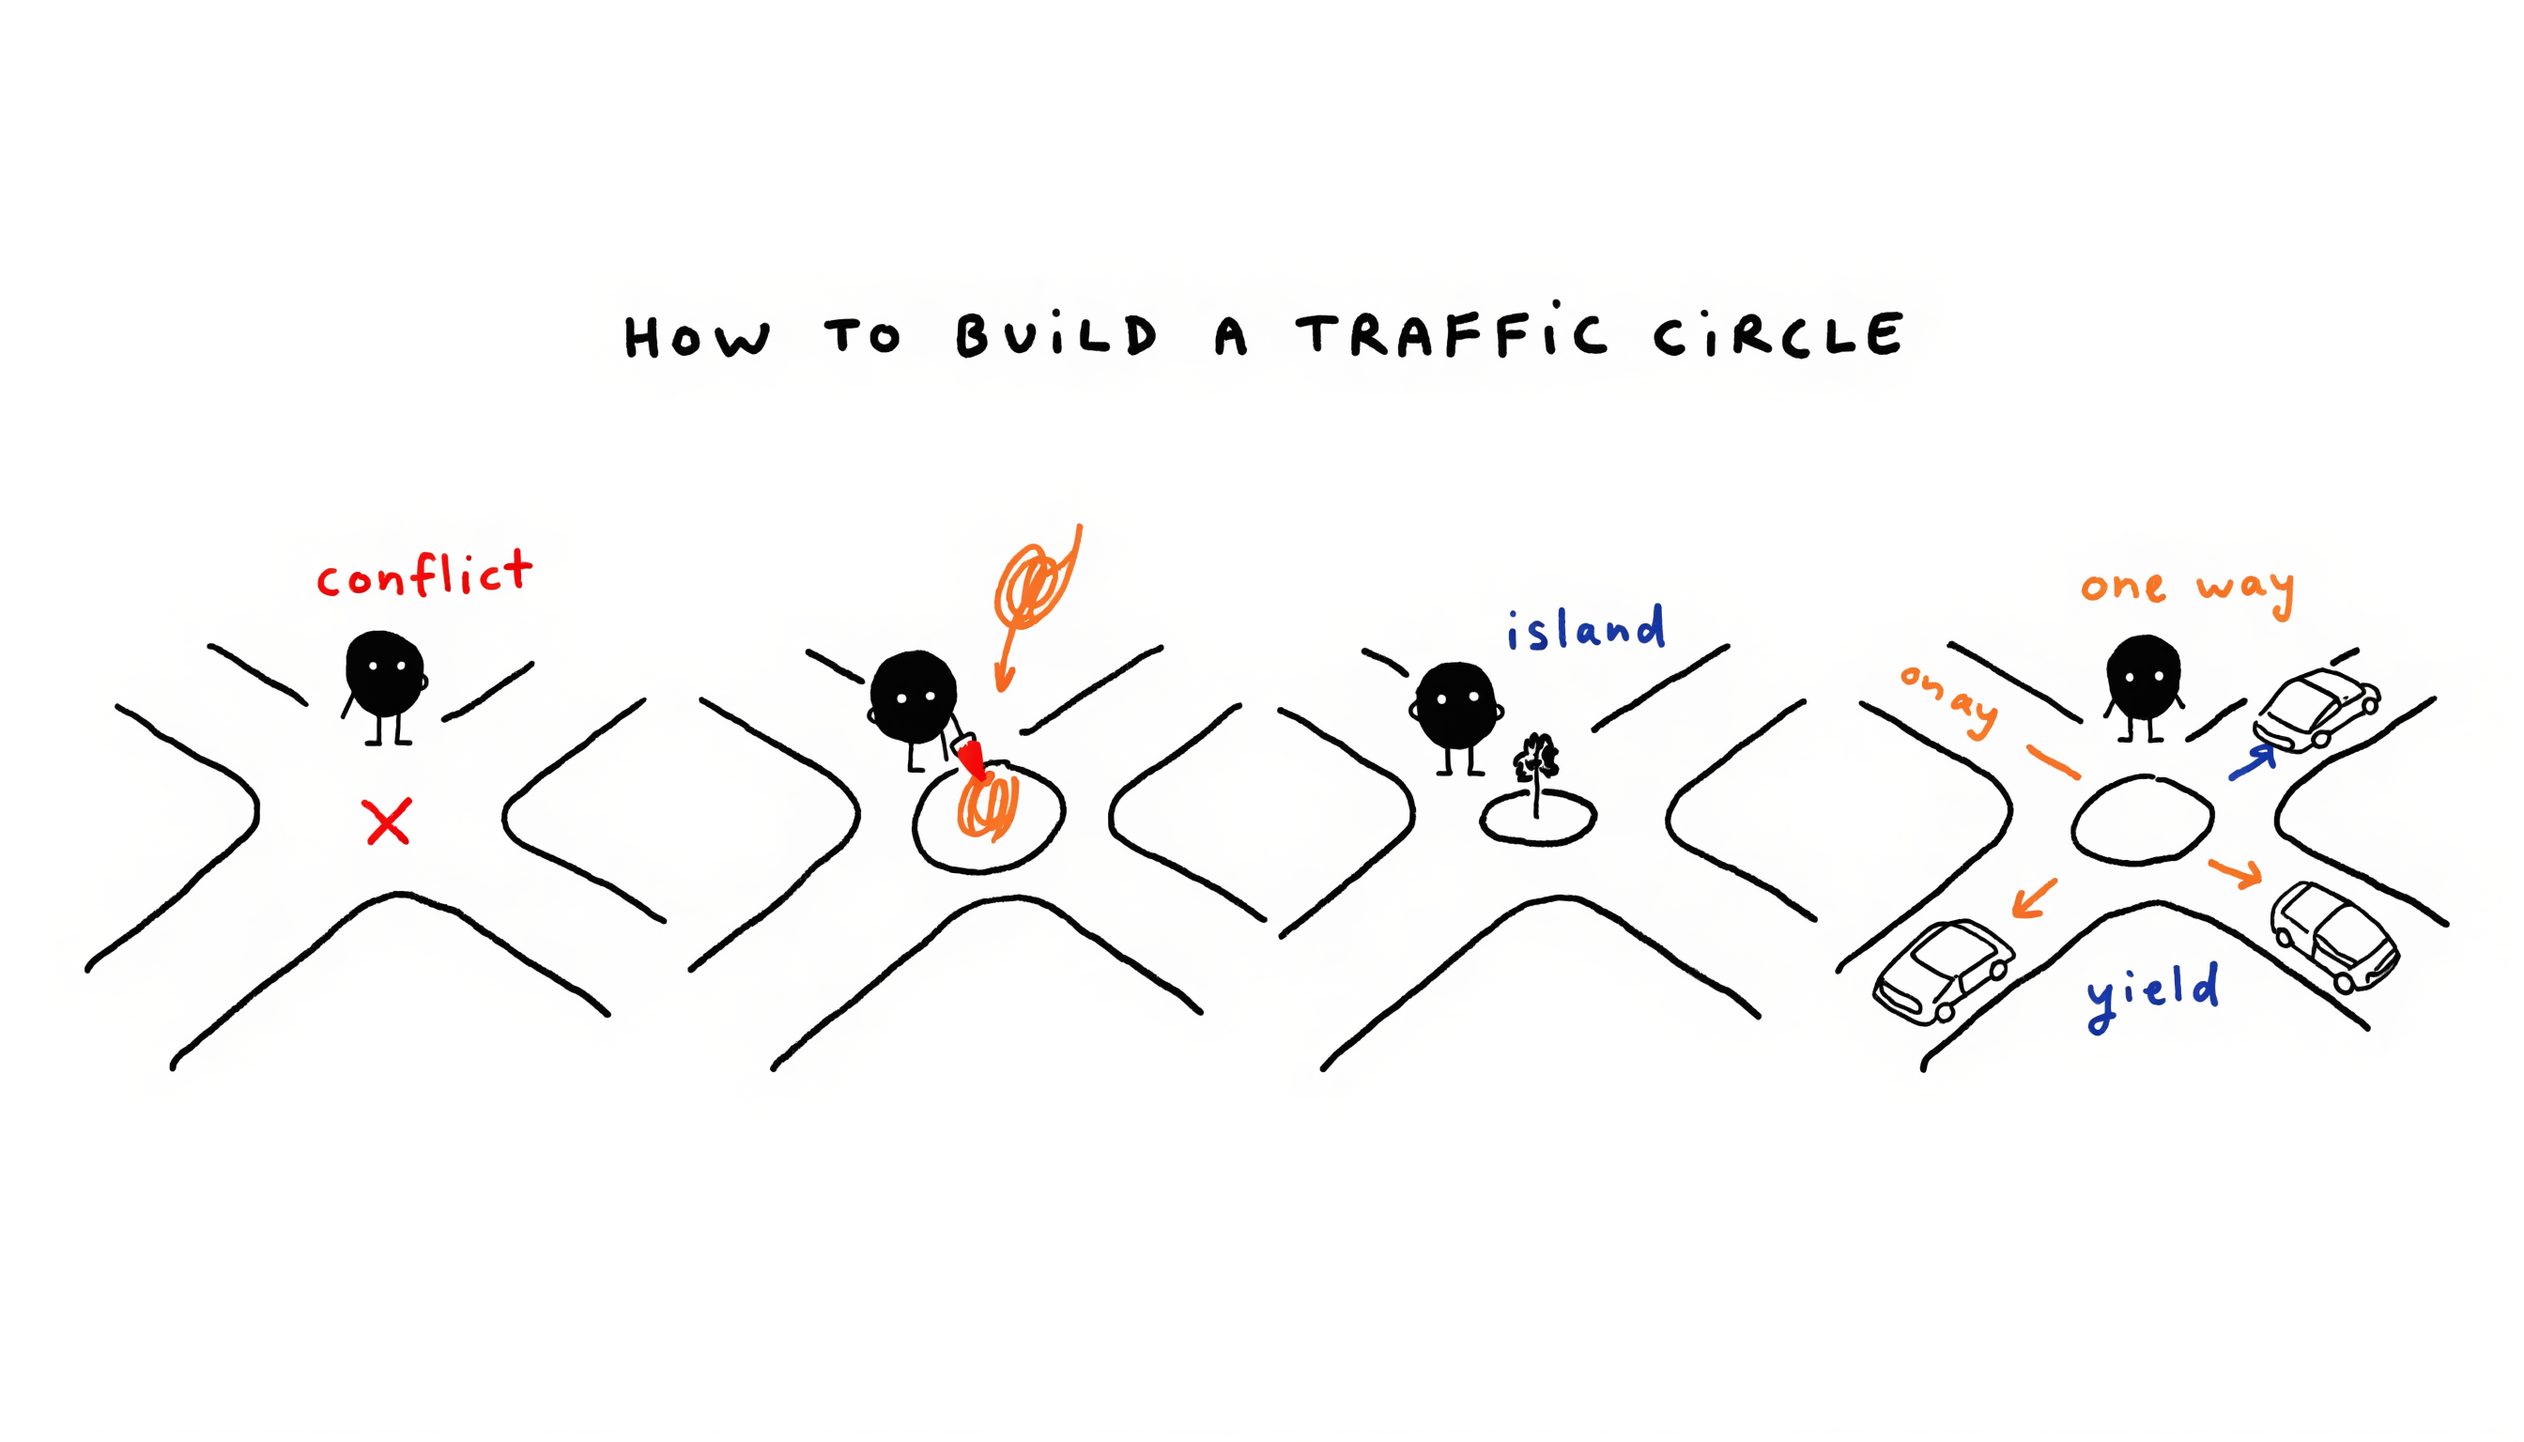
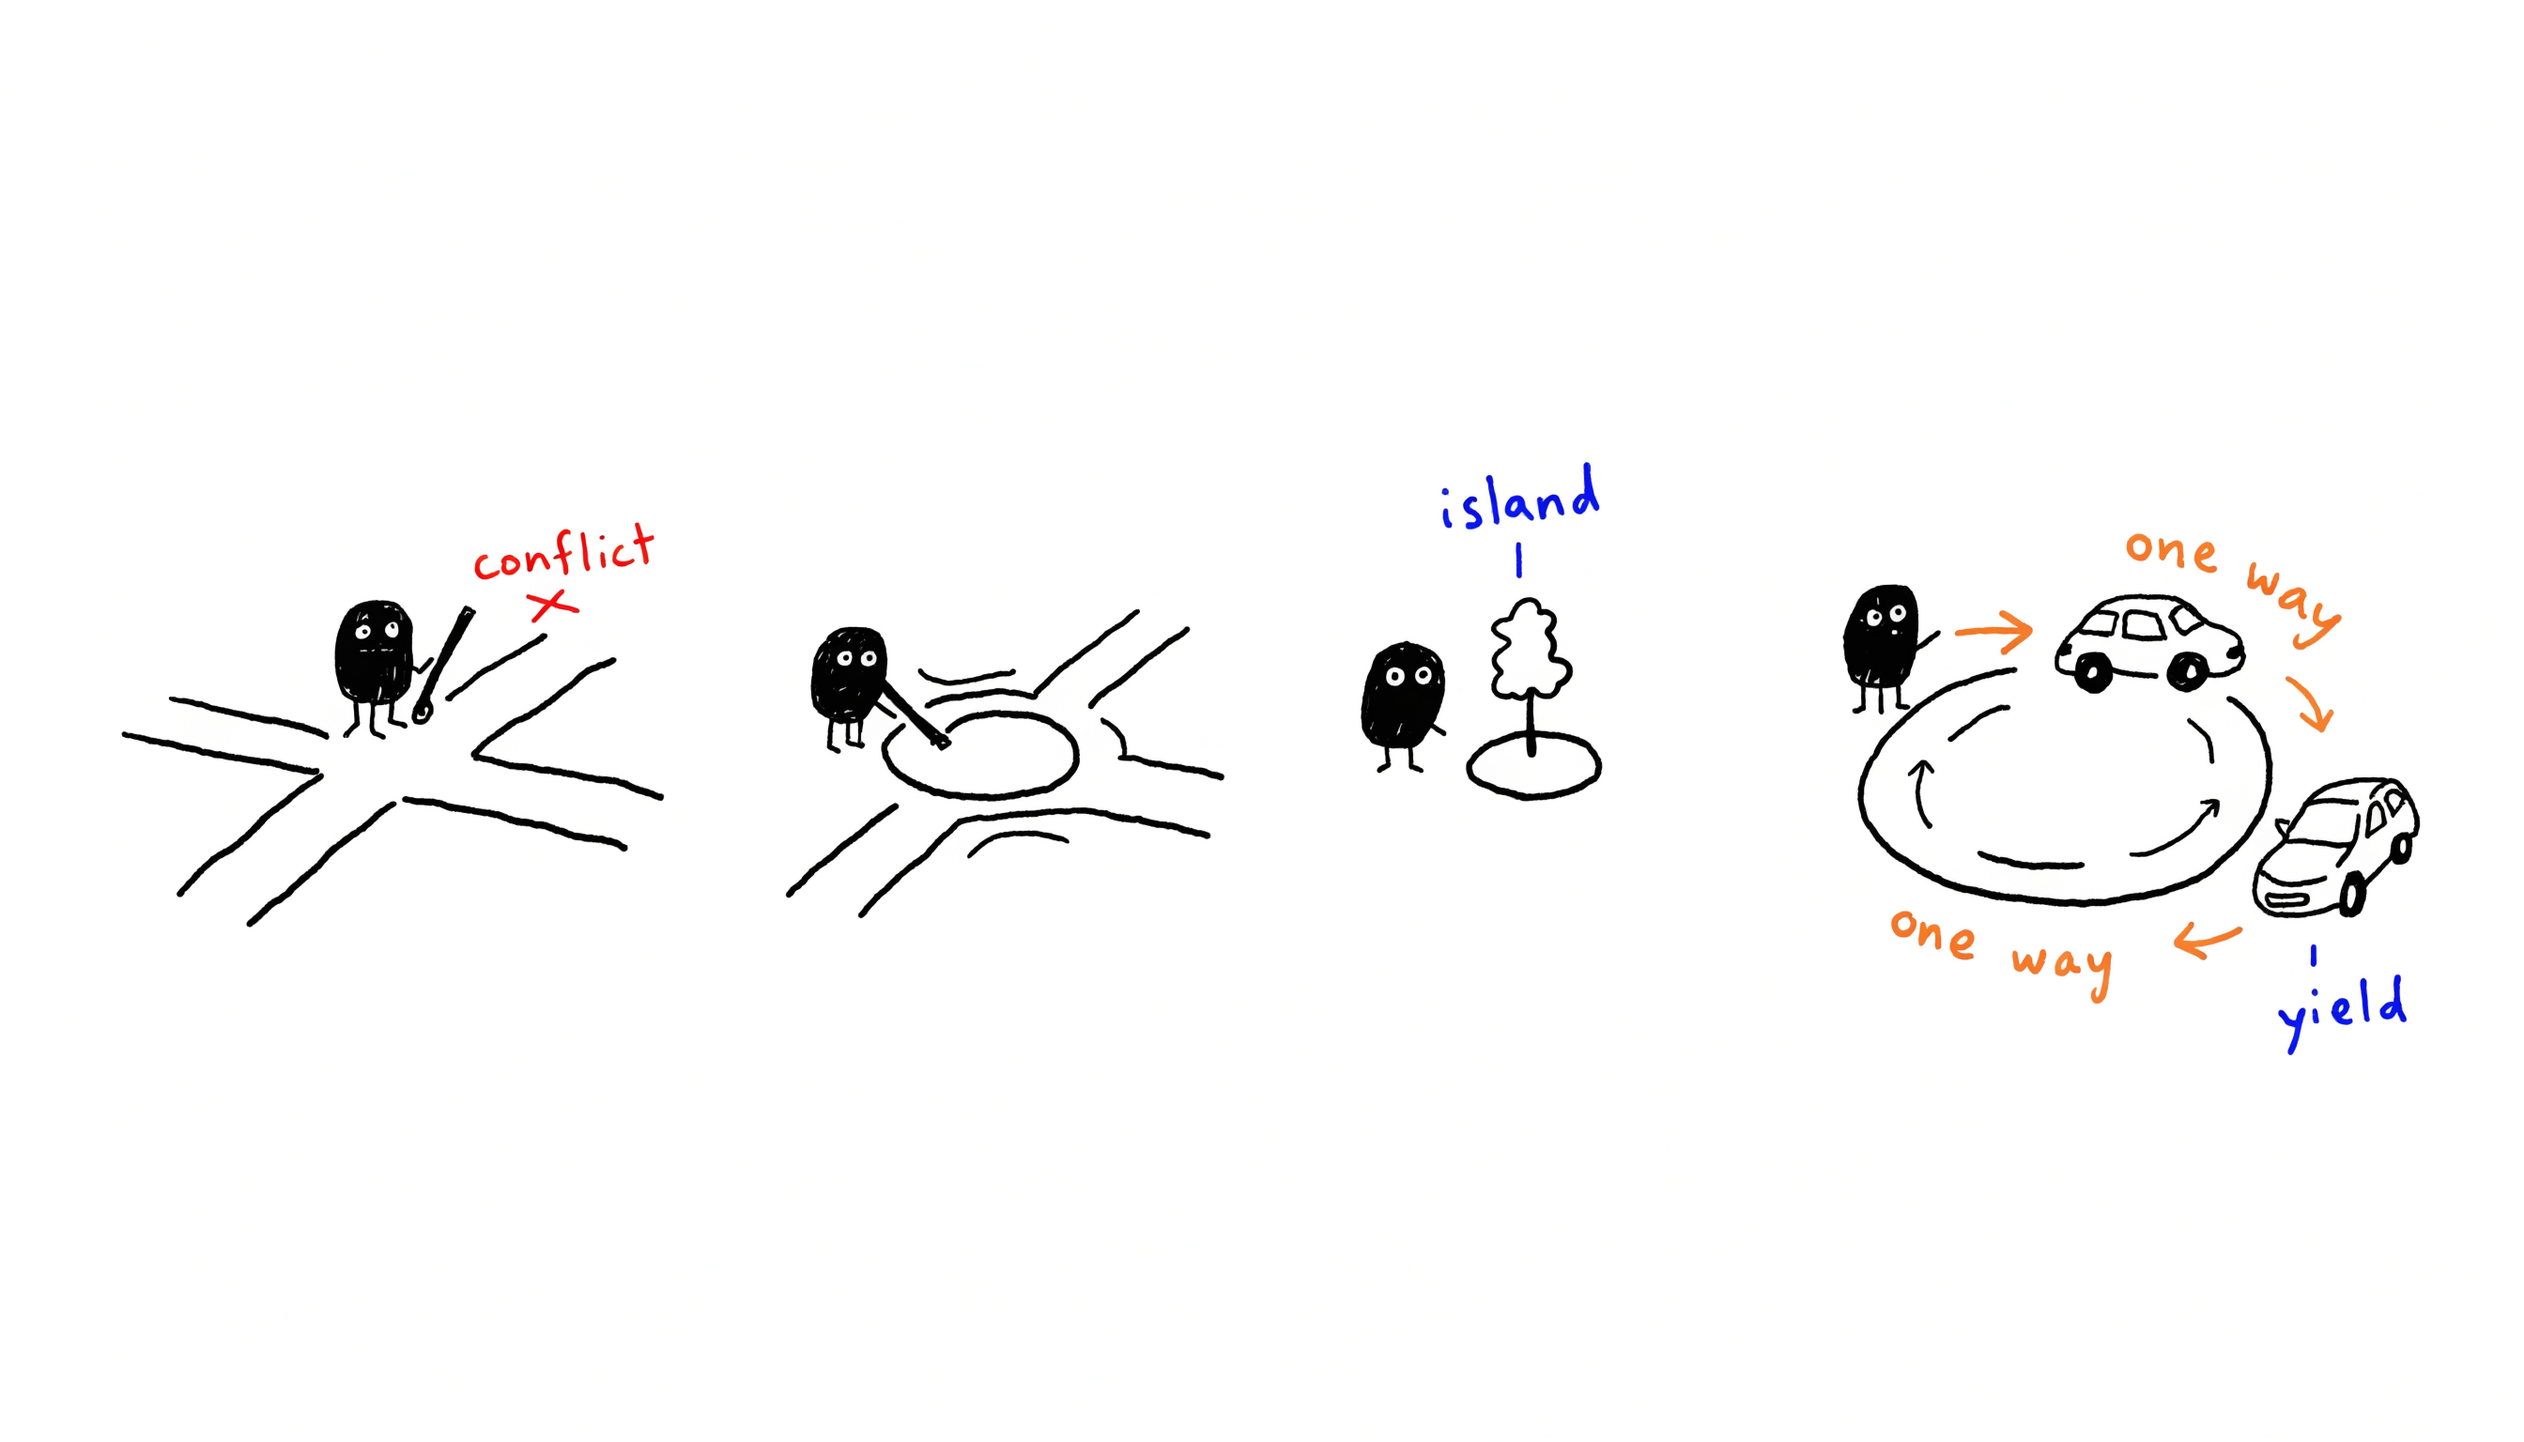
feat: add Microsoft Clarity heatmaps (env-gated NEXT_PUBLIC_CLARITY_ID); swap traffic-circle chart to the no-title XaioHei version

diff --git a/components/Analytics.tsx b/components/Analytics.tsx
@@ -4,14 +4,24 @@ import Script from "next/script";
 // (add it to .env.local on the VPS, then redeploy). No-ops otherwise, so the site
 // works fine without it.
 export function Analytics() {
-  const id = process.env.NEXT_PUBLIC_GA_ID;
-  if (!id) return null;
+  const gaId = process.env.NEXT_PUBLIC_GA_ID;
+  const clarityId = process.env.NEXT_PUBLIC_CLARITY_ID;
+  if (!gaId && !clarityId) return null;
   return (
     <>
-      <Script src={`https://www.googletagmanager.com/gtag/js?id=${id}`} strategy="afterInteractive" />
-      <Script id="ga-init" strategy="afterInteractive">
-        {`window.dataLayer=window.dataLayer||[];function gtag(){dataLayer.push(arguments);}gtag('js',new Date());gtag('config','${id}');`}
-      </Script>
+      {gaId && (
+        <>
+          <Script src={`https://www.googletagmanager.com/gtag/js?id=${gaId}`} strategy="afterInteractive" />
+          <Script id="ga-init" strategy="afterInteractive">
+            {`window.dataLayer=window.dataLayer||[];function gtag(){dataLayer.push(arguments);}gtag('js',new Date());gtag('config','${gaId}');`}
+          </Script>
+        </>
+      )}
+      {clarityId && (
+        <Script id="ms-clarity" strategy="afterInteractive">
+          {`(function(c,l,a,r,i,t,y){c[a]=c[a]||function(){(c[a].q=c[a].q||[]).push(arguments)};t=l.createElement(r);t.async=1;t.src="https://www.clarity.ms/tag/"+i;y=l.getElementsByTagName(r)[0];y.parentNode.insertBefore(t,y);})(window,document,"clarity","script","${clarityId}");`}
+        </Script>
+      )}
     </>
   );
 }
